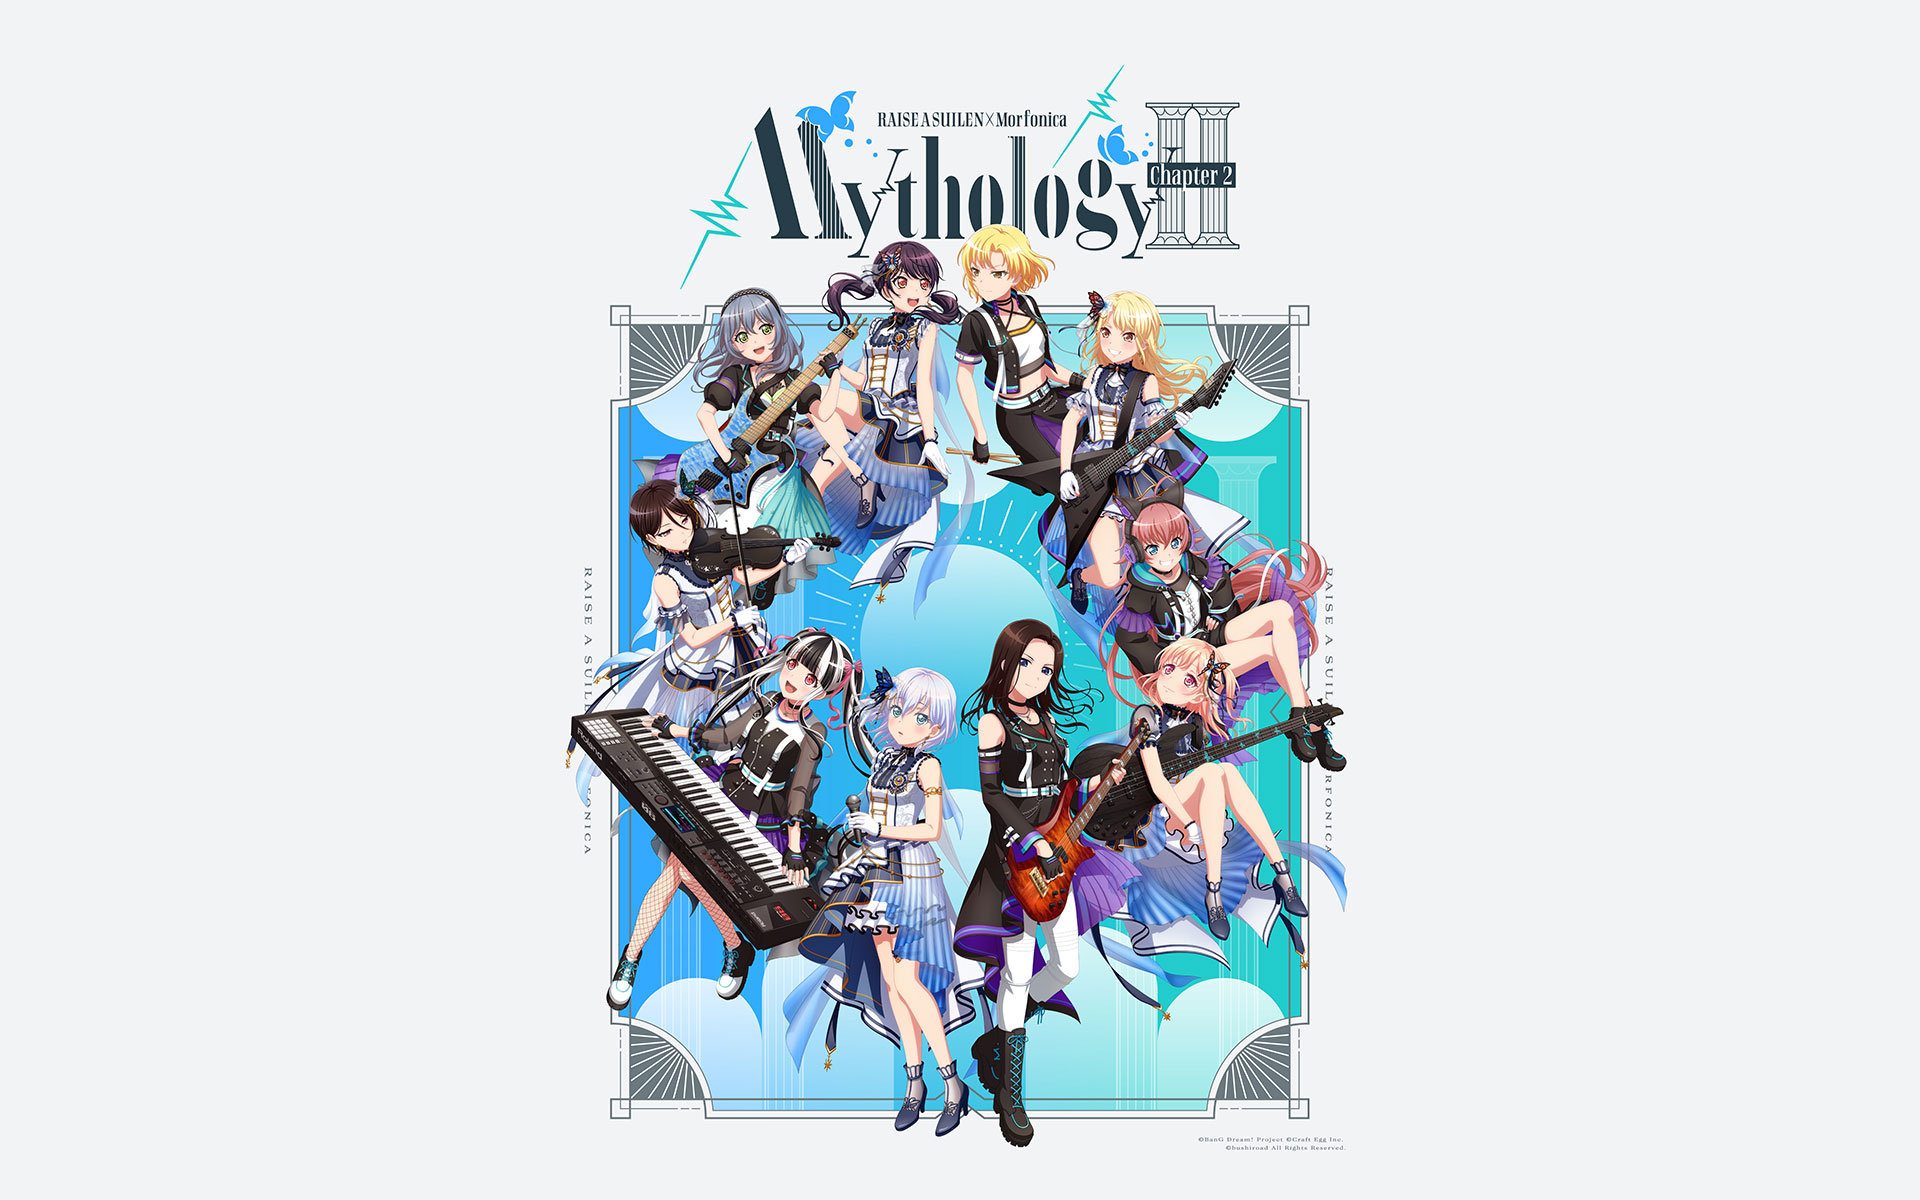
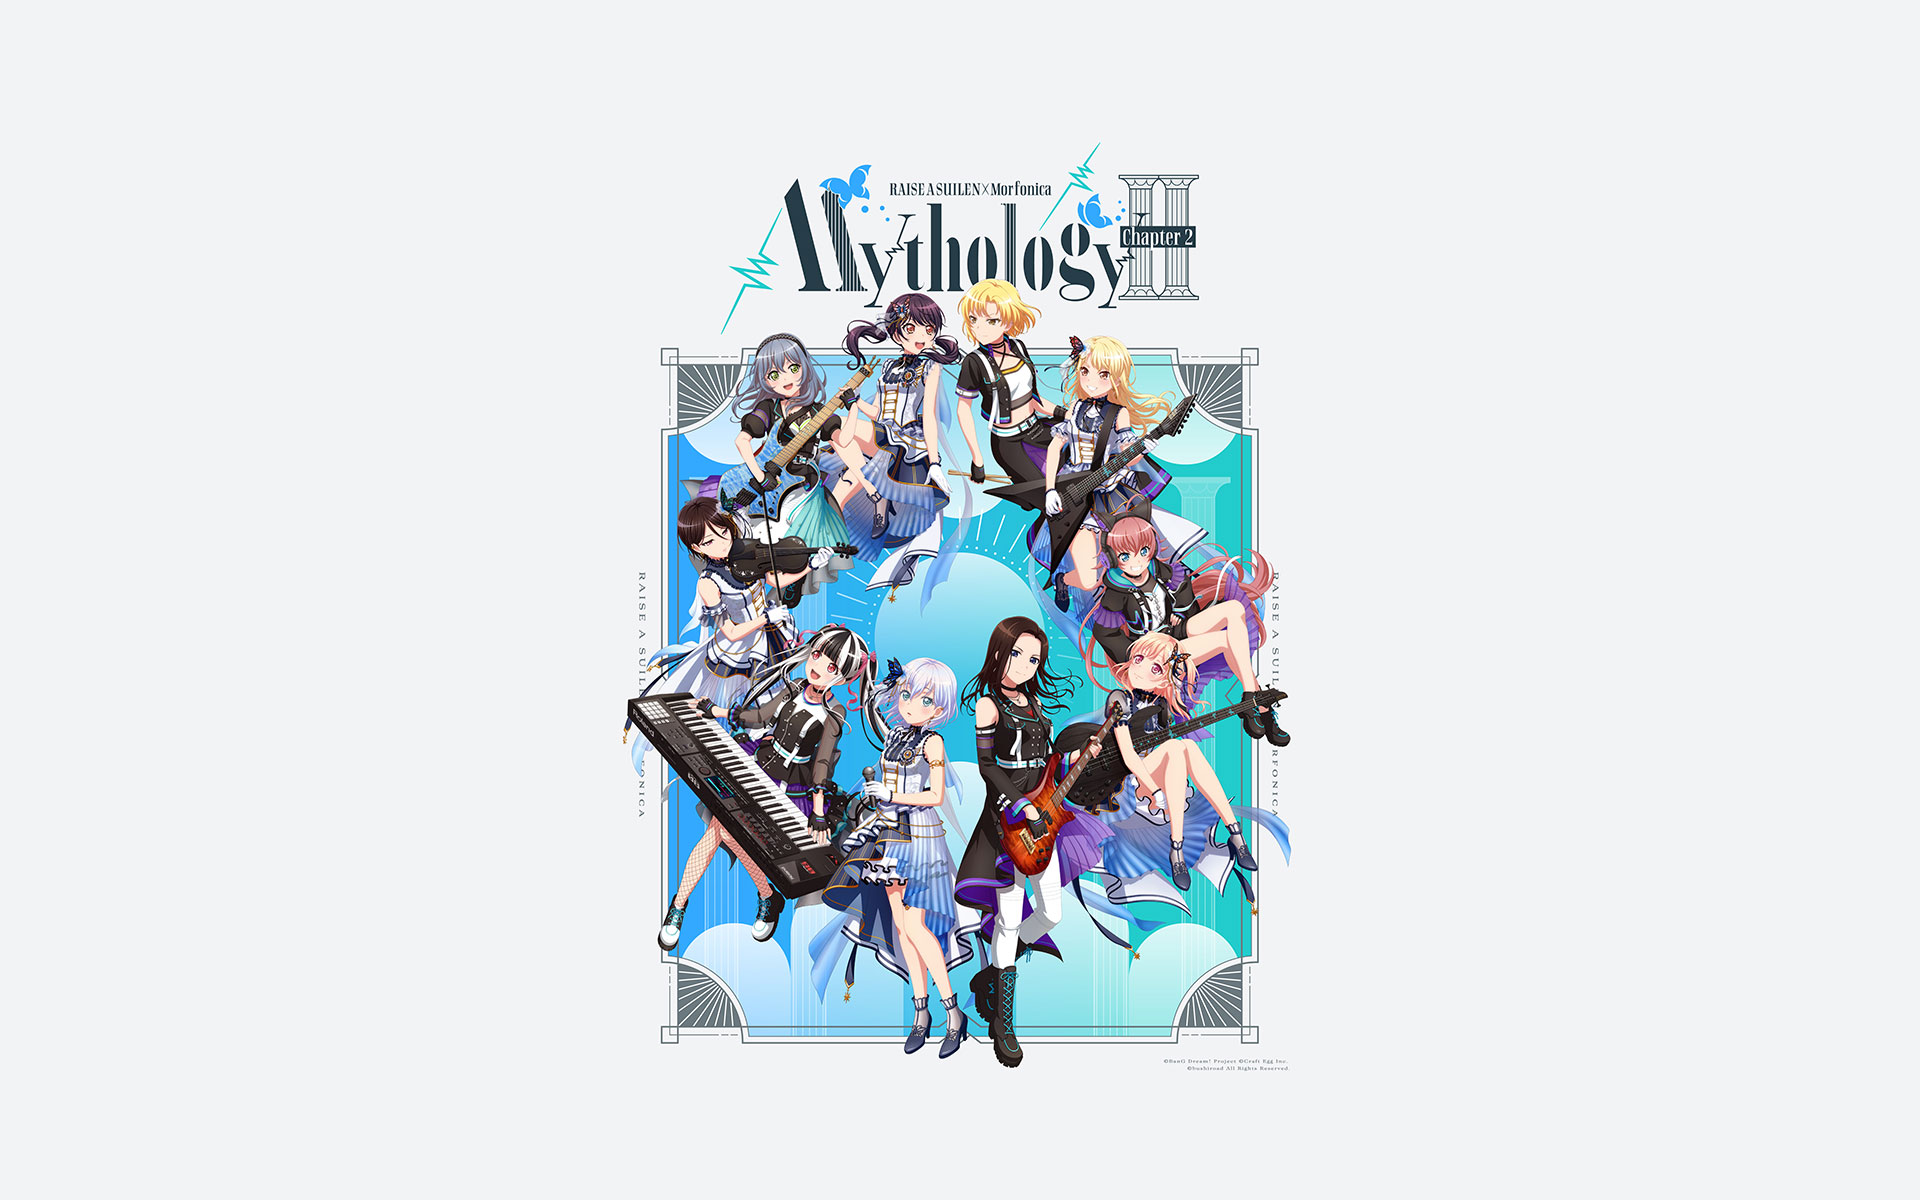
画像動き修正

Changed region(s): [[0.2812, 0.0617, 0.7188, 0.9558]]

diff --git a/index.html b/index.html
@@ -38,7 +38,7 @@
 			<div class="container">
 				<div class="navbar-header">
 					<a class="menu-toggle navbar-toggle" data-toggle="collapse" data-target=".navbar-collapse" href="#"><span></span></a>
-					<a class="navbar-brand" href=""><span class="highlight">Mythology 2 | OVERKILL</span> LV</a>
+					<a class="navbar-brand" href=""><span class="highlight">RAS</span> x <span class="highlight">Morfonica</span> LV</a>
 				</div>
 				<div class="collapse navbar-collapse">
 					<ul class="nav navbar-nav navbar-right">
@@ -67,7 +67,7 @@
 						</div>
 						<p class="text-center-big">RAISE A SUILEN x Morfonica</p>
 						<h1 class="text-center">Mythology Chapter 2</h1>
-						<p class="text-center-big">RAISE A SUILEN LIVE 2022</p>
+						<p class="text-center-big mt-20">RAISE A SUILEN LIVE 2022</p>
 						<h1 class="text-center">OVERKILL</h1>
 						<h2><span class="thin-font-weight">- Live Viewing -</span></h2>
 						<div class="row mt-30">
@@ -86,11 +86,11 @@
 		<section id="about">
 			
 			<div class="view">
-				<img alt class="bg" src="images/placeholders/img_1920x1200-02.jpg" /><img class="bg" src="images/placeholders/img_1920x1200-01.jpg" />
+				<img alt class="bg" src="images/placeholders/img_1920x1200-01.jpg" /><img class="bg" src="images/placeholders/img_1920x1200-02.jpg" />
 				<div class="content colors-h">
 					<div class="container">						
 						
-						<p class="text-center"><img src="images/placeholders/img_logo2.jpg" width="100%" alt=""/></p>
+						<p class="text-center"><img src="images/placeholders/img_logo2.jpg" width="80%" alt=""/></p>
 						
 						
 						<div class="row">
@@ -101,6 +101,8 @@
 								</div>
 								<div class="col-content">
 									<h4>チケット<span class="highlight">料金</span></h4>
+									<p>6月18日(土)：RAISE A SUILEN x Morfonica ｢Mythology Chapter 2｣ (ツーマンライブ)<br>
+6月19日(日)：RAISE A SUILEN LIVE 2022 ｢OVERKILL｣ (単独ライブ)</p>
 									<p>先行/一般/当日 4,300円 (税込/全席指定) ※劇場LV特典あり</p>
 									<p><a href="#playguide">
 									  <button type="button" class="btn btn-primary heading border-heading"><i class="li_paperplane"></i> チケット情報</button>
@@ -168,7 +170,7 @@
 		
 		<section id="playguide">
 			<div class="view">
-				<img alt class="bg" src="images/placeholders/img_1920x1200-02.jpg" /><img class="bg" src="images/placeholders/img_1920x1200-01.jpg" />
+				<img alt class="bg" src="images/placeholders/img_1920x1200-01.jpg" /><img class="bg" src="images/placeholders/img_1920x1200-02.jpg" />
 				<div class="content colors-e">
 					<div class="container">
 						<h2>チケット<span class="highlight">情報</span></h2>
@@ -293,7 +295,7 @@
 		
 		<section id="goods">
 			<div class="view">
-				<img alt class="bg" src="images/placeholders/1920x1200-1.jpg" /><img alt class="bg" src="images/placeholders/1920x1200-2.jpg" />
+				<img alt class="bg" src="images/placeholders/img_1920x1200-01.jpg" /><img alt class="bg" src="images/placeholders/img_1920x1200-02.jpg" />
 				<div class="content colors-e">
 					<div class="container">
 						<h2>グッズ<span class="highlight">販売</span></h2>
